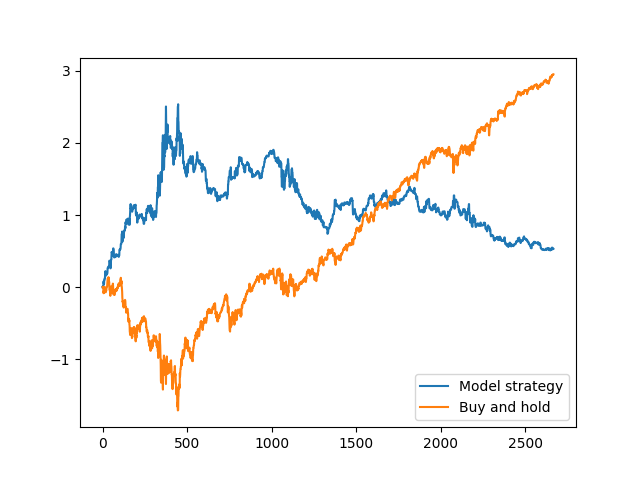
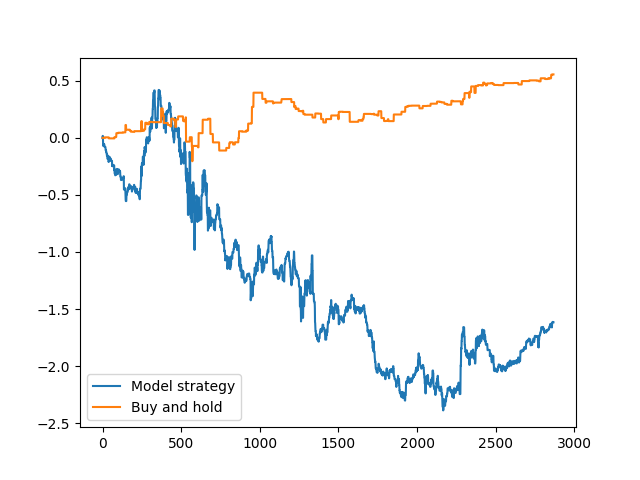
merged stuff

diff --git a/pipelines/run_dqn.py b/pipelines/run_dqn.py
@@ -209,7 +209,7 @@ def train(model: DQN, index: str, symbol: str, dataset: str,
         for i in count():
             state, done = env.step()
 
-            action_index, num = select_action(model=model, state=state, strategy=strategy)
+            action_index, num = select_action(model=model, state=state, strategy=strategy, t=i)
 
             # Compute profit, reward given action_index and num
             env.compute_profit_and_reward(action_index=action_index, num=num)
@@ -274,7 +274,7 @@ def evaluate(model: DQN, index:str, symbol:str, dataset: str, strategy: int = co
 
         # Select action
         action_index, num = select_action(model=model, state=state, strategy=strategy,
-                                          only_use_strategy=only_use_strategy)
+                                          only_use_strategy=only_use_strategy, t=i)
 
         # Compute profit, reward given action_index and num
         profit, _ = env.compute_profit_and_reward(action_index=action_index, num=num)

diff --git a/main.py b/main.py
@@ -88,11 +88,11 @@ if __name__ == '__main__':
         'method': NUMQ,
         'index': 'gspc',
         'symbol': '^GSPC',
-        'train_model': False,
+        'train_model': True,
         'eval_model': True,
         'train_set': 'full_train',
         'eval_set': 'test',
-        'load_model': True,
+        'load_model': False,
         'IN_PATH': 'weights/numq_gspc_10.pt',
         'save_model': False,
         'OUT_PATH': 'weights/numq_gspc_10.pt'
